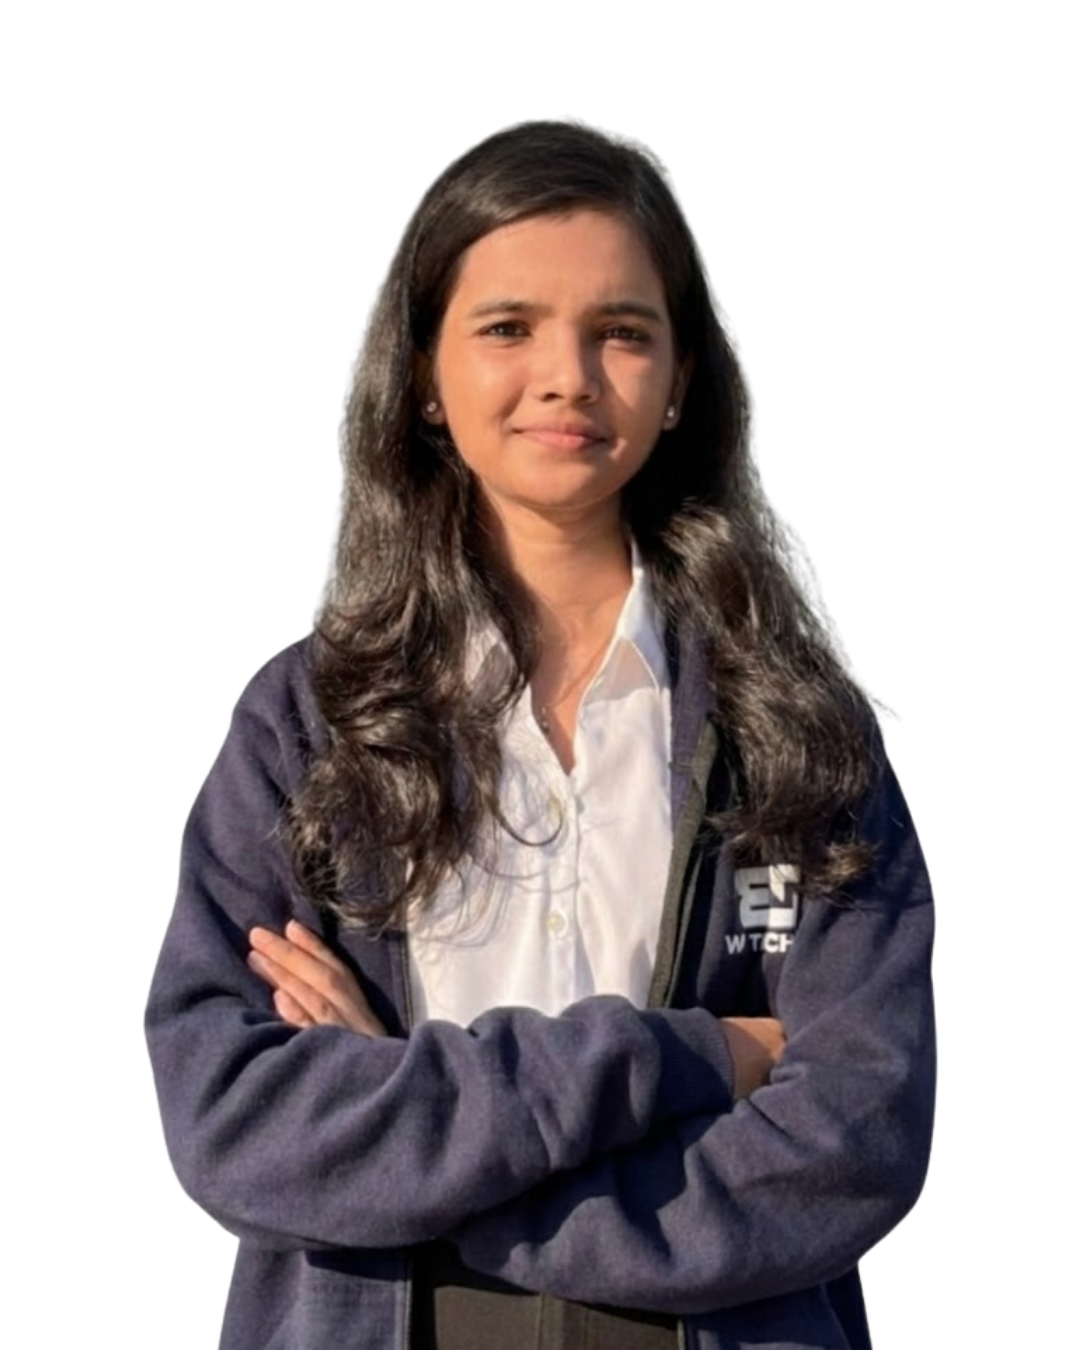
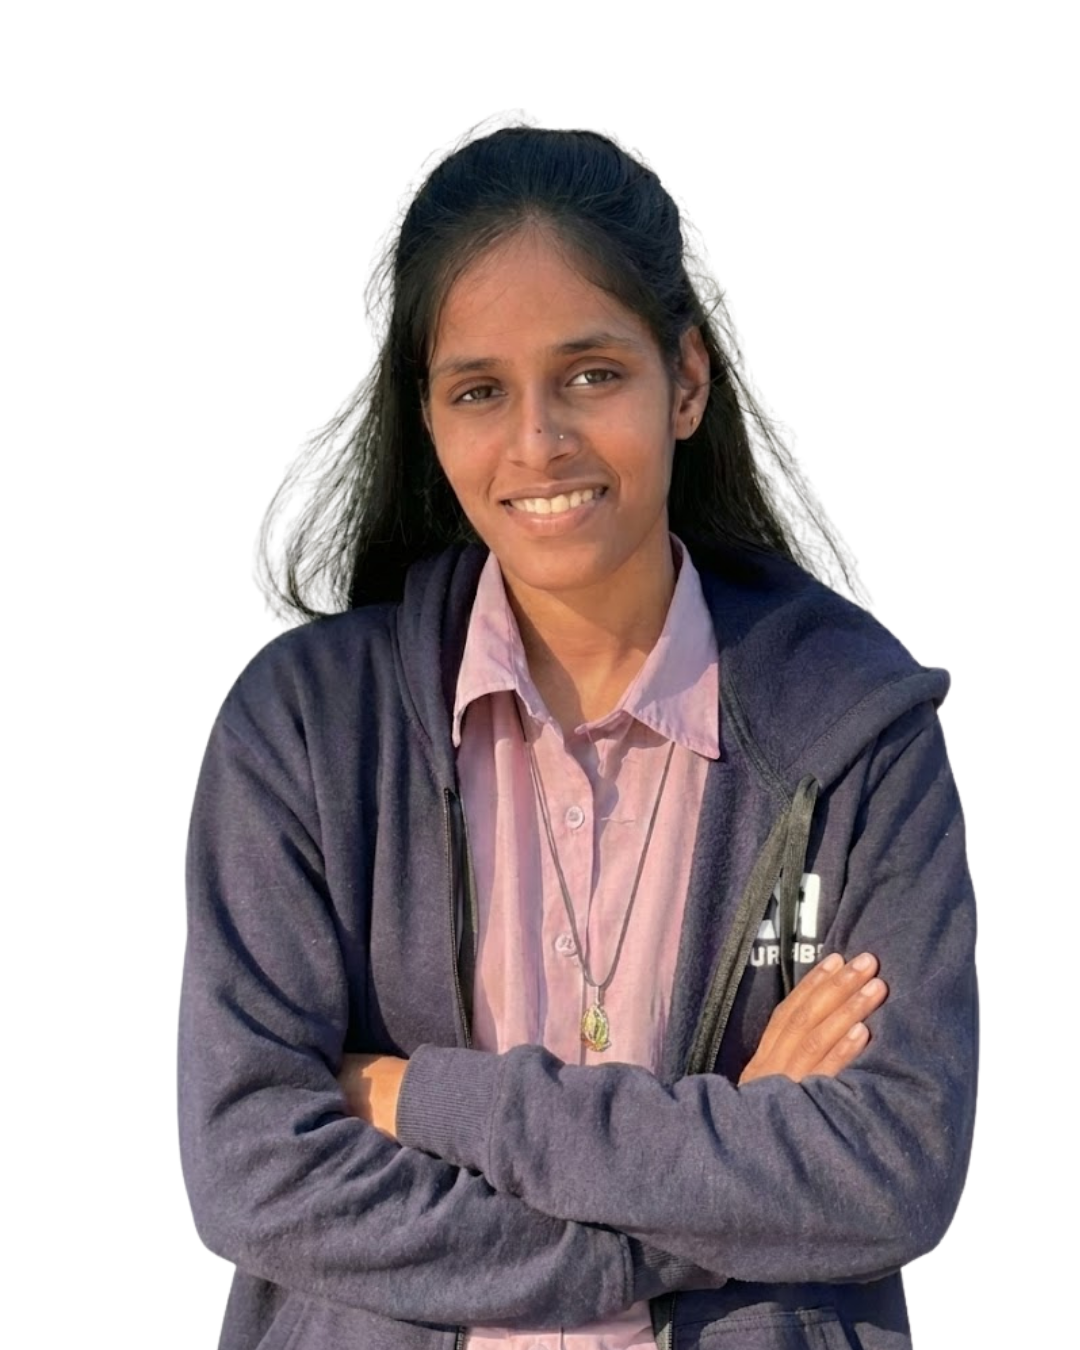
added the tanisha photo and thge updated links and addded the new event

diff --git a/component/EventsSlider/EventSwiper.jsx b/component/EventsSlider/EventSwiper.jsx
@@ -10,18 +10,35 @@ import "./styles.css";
 import { Pagination, Navigation } from "swiper/modules";
 
 const defaultEvents = [
-     {
-    id: 4,
-    title: "",
-    date: "Sep 27, 5:00 PM - 7.00 PM",
-    location: "Online",
-    image: "/Poster/AiIntent.jpg",
+  {
+    id: 5,
+    title: "AgentX Summit",
+    date: "Jan 28, 4:00 PM - 6:30 PM",
+    location: "VIT L06",
+    image: "/Poster/agentx.jpeg",
     description:
-      `Generative AI is revolutionizing how we create, design, and solve problems — driving smarter solutions and opening new career paths. This session will explore the future of AI, real-world applications of LLMs and NLP, and how autonomy and adaptability are reshaping industries.
+      `AgentX Summit is an in-depth, hands-on learning experience focused on building intelligent AI agents powered by Large Language Models. The workshop walks participants through the complete journey from understanding agentic AI concepts to implementing real-world automation using LangChain, APIs, tools, and memory.
 
-The talk will be led by Laxmikant Tiwari who is the Co-Founder of MBreath, IIT Kharagpur alumnus, and Senior Manager at Linedata, with 6+ years of expertise in AI and Data Science. Learn from his journey and gain insights into building impactful careers in AI.`,
+Explore how AI agents go beyond generative models by reasoning, planning, and acting with tools & data.
+
+What You'll Master:
+- Build AI agents from scratch
+- Use APIs & memory for intelligent automation
+- Automate real-world tasks with practical applications
+
+Led by Laxmi Kant Tiwari, Co-founder of MBreath, IIT Kharagpur alumnus, and Data Science Manager at IGP, with 6+ years of expertise in AI and Data Science. The session combines live demonstrations, guided practice, and mentorship, helping attendees gain practical, industry-relevant skills and a resume-ready project that showcases their ability to design and deploy AI agents.
+
+Benefits:
+- Certificate of completion
+- Resume-ready project
+- 1:1 Mentorship
+- Live hands-on learning
+
+Contact:
+- Bhavika Yashwantrao: 8591097092
+- Tejas Dhanvi: 7738794631`,
   },
-   {
+     {
      id: 3,
      title: "Byte Of Fortune",
      date: "Sep 30, 4:00 PM",
@@ -44,6 +61,18 @@ The talk will be led by Laxmikant Tiwari who is the Co-Founder of MBreath, IIT K
 
  Only correct, properly submitted solutions count toward scoring.`,
    },
+     {
+    id: 4,
+    title: "",
+    date: "Sep 27, 5:00 PM - 7.00 PM",
+    location: "Online",
+    image: "/Poster/AiIntent.jpg",
+    description:
+      `Generative AI is revolutionizing how we create, design, and solve problems — driving smarter solutions and opening new career paths. This session will explore the future of AI, real-world applications of LLMs and NLP, and how autonomy and adaptability are reshaping industries.
+
+The talk will be led by Laxmikant Tiwari who is the Co-Founder of MBreath, IIT Kharagpur alumnus, and Senior Manager at Linedata, with 6+ years of expertise in AI and Data Science. Learn from his journey and gain insights into building impactful careers in AI.`,
+  },
+
   {
     id: 1,
     title: "Hackbuilt",

diff --git a/data/teamData.js b/data/teamData.js
@@ -26,8 +26,8 @@ export const leadership = [
       hover: '/members/tanisha-hover.png',
     },
     links: {
-      linkedin: 'https://linkedin.com/in/tanisha-sharma',
-      github: 'https://github.com/tanisha-sharma',
+      linkedin: 'www.linkedin.com/in/tanisha-sharma-776a49298',
+      github: 'https://github.com/tanishasharma1827',
     },
   },
   {
@@ -38,8 +38,8 @@ export const leadership = [
       hover: '/members/swaroop-hover.png',
     },
     links: {
-      linkedin: 'https://linkedin.com/in/swaroop-naik',
-      github: 'https://github.com/swaroop-naik',
+      linkedin: 'www.linkedin.com/in/swaroop-naik-5bb172233',
+      github: 'https://github.com/Swaroop192005',
     },
   },
   {
@@ -71,8 +71,8 @@ export const domains = [
           hover: '/members/prashi-hover.png',
         },
         links: {
-          linkedin: 'https://linkedin.com/in/prashi-rawal',
-          github: 'https://github.com/prashi-rawal',
+          linkedin: 'https://www.linkedin.com/in/prashi-rawal-452baa299/',
+          github: 'https://github.com/PRASHIRAWAL',
         },
       },
     ],
@@ -85,7 +85,7 @@ export const domains = [
           hover: '/members/rohit-hover.png',
         },
         links: {
-          linkedin: 'https://linkedin.com/in/rohit-soneji',
+          linkedin: 'https://www.linkedin.com/in/rohit-soneji-9483a5344/',
           github: 'https://github.com/SwiftByte6',
         },
       },
@@ -102,8 +102,8 @@ export const domains = [
           hover: '/members/ishika-hover.png',
         },
         links: {
-          linkedin: 'https://linkedin.com/in/ishika-bhute',
-          github: 'https://github.com/ishika-bhute',
+          linkedin: 'https://www.linkedin.com/in/ishika-bhute-a72b1a32b?utm_source=share&utm_campaign=share_via&utm_content=profile&utm_medium=android_app',
+          github: 'https://github.com/ishikaa7',
         },
       },
     ],
@@ -116,8 +116,8 @@ export const domains = [
           hover: '/members/soumitra-hover.png',
         },
         links: {
-          linkedin: 'https://linkedin.com/in/soumitra-rajguru',
-          github: 'https://github.com/soumitra-rajguru',
+          linkedin: 'www.linkedin.com/in/soumitra-rajguru',
+          github: 'https://github.com/Soumitra-04',
         },
       },
     ],
@@ -133,8 +133,8 @@ export const domains = [
           hover: '/members/sudha-hover.png',
         },
         links: {
-          linkedin: 'https://linkedin.com/in/sudha-maurya',
-          github: 'https://github.com/sudha-maurya',
+          linkedin: 'https://www.linkedin.com/in/sudha-maurya-53aa35324/',
+          github: 'https://github.com/sudha2186/sudha2186',
         },
       },
     ],

diff --git a/components/MagicBento.jsx b/components/MagicBento.jsx
@@ -507,14 +507,14 @@ const MagicBento = ({
                 <div className="text-white/70 text-xs uppercase tracking-wide">
                   Upcoming
                 </div>
-                <div className="text-white font-heading text-xl">Byte of Fortune</div>
-                <div className="text-white/60 text-xs">Tue, 16:00 PM · M312 & M313</div>
+                <div className="text-white font-heading text-xl">AgentX Summit</div>
+                <div className="text-white/60 text-xs">Jan 28, 4:00 PM - 6:30 PM · VIT L06</div>
                 <p className="text-white/70 text-sm p-1 line-clamp-3  mt-2 max-w-[240px]">
-                 Byte of Fortune is a coding showdown where every spin and flip shapes your destiny — solve, strategize, and outsmart to claim victory.
+                  Hands-on workshop on building AI agents with LangChain. Learn to create intelligent automation using APIs, tools, and memory with expert mentorship.
                 </p>
               </div>
               <a
-                href="https://docs.google.com/forms/d/e/1FAIpQLSdjXxFknibTxHg2nNzpsZStyssXO9YlLYZ7t33Z3PYlzPh9zg/viewform"
+                href="https://forms.gle/rcxuDay4gmfJx5vi7"
                 target="_blank"
                 rel="noopener noreferrer"
                 className="shrink-0 rounded-xl bg-[#12091d] border border-[#392e4e] px-3 py-2 text-xs text-white/80 hover:bg-[#1e0f2b] transition"

diff --git a/component/Upcoming.jsx b/component/Upcoming.jsx
@@ -30,11 +30,11 @@ const TimeCell = ({ value, label }) => {
 };
 
 const Upcoming = ({
-  title = "Byte Of Fortune",
-  subtitle = "An intense coding challenge where participants race to solve problems, spin for new tasks, and strategically use Power Cards to outsmart the competition.",
-  ctaText = "Register for Byte Of Fortune",
-  ctaHref = "https://docs.google.com/forms/d/e/1FAIpQLSdjXxFknibTxHg2nNzpsZStyssXO9YlLYZ7t33Z3PYlzPh9zg/viewform",
-  target = "2025-09-30T16:00:00",
+  title = "AgentX Summit",
+  subtitle = "An in-depth, hands-on learning experience focused on building intelligent AI agents powered by Large Language Models using LangChain, APIs, tools, and memory.",
+  ctaText = "Register for AgentX Summit",
+  ctaHref = "https://forms.gle/rcxuDay4gmfJx5vi7",
+  target = "2026-01-28T16:00:00",
   imageSrc = "/Hand.png",
   imageAlt = "Energy hand",
 }) => {
@@ -49,7 +49,7 @@ const Upcoming = ({
   }, [targetDate]);
 
   return (
-    <section  className="w-full bg-[#0A0711]">
+    <section id="upcoming"  className="w-full bg-[#0A0711]">
       <div className="mx-auto w-full max-w-7xl px-4 sm:px-6 lg:px-8 ">
         <div className="grid grid-cols-1 lg:grid-cols-2 gap-12 items-center">
           {/* Left: Text and countdown */}

diff --git a/component/ButtonPrimary.jsx b/component/ButtonPrimary.jsx
@@ -11,13 +11,13 @@ const Button = ({ text, route, variant = "primary", ...props }) => {
       text-white border border-[#A78BFA]/30 
       hover:from-[#2A1F3D] hover:to-[#3B1E65] 
       shadow-lg hover:shadow-purple-500/30 
-      focus:ring-purple-500
+      focus:ring-purple-500 cursor-pointer
     `,
     secondary: `
       bg-[#2A1F3D] text-white border border-[#A78BFA]/30 
       hover:bg-[#3B1E65] hover:border-[#C4B5FD] 
       shadow-md hover:shadow-purple-400/20 
-      focus:ring-purple-500
+      focus:ring-purple-500 cursor-pointer
     `,
   };
 
